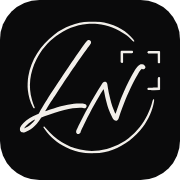
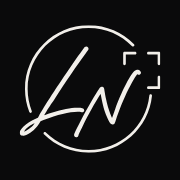
Add Lina Nieto logotype and update the LN monogram (#7)
* Add Lina Nieto logotype and update the LN monogram

- New LN monogram artwork in Logo.tsx and public/logo-ln.svg
- Logotype.tsx and public/logotipo.svg: "Lina Nieto" in script
- Navigation and mobile menu show monogram + logotype instead of text
- New favicon, apple-touch-icon and Open Graph image with the lockup
- Document the lockup in README and DESIGN.md

Claude-Session: https://claude.ai/code/session_013SFx2cV7kBRcZLTBZEKYRE

* Remove the tagline from the Open Graph image

Claude-Session: https://claude.ai/code/session_013SFx2cV7kBRcZLTBZEKYRE

* Remove the tagline from the Open Graph image

Claude-Session: https://claude.ai/code/session_013SFx2cV7kBRcZLTBZEKYRE

---------

diff --git a/src/components/Logotype.tsx b/src/components/Logotype.tsx
@@ -1,0 +1,38 @@
+import { cn } from 'polpo/helpers';
+
+/** Paths of the "Lina Nieto" script logotype (176 × 50 artboard). */
+const PATHS = [
+  'M32.5938 29.8321C31.8336 29.0198 31.4789 27.2936 31.4789 25.6181C31.4789 24.0442 31.7829 22.4703 32.3404 21.6072C32.3911 21.3533 32.8978 21.3026 33.506 21.4549C34.0634 21.658 34.3675 22.0641 34.3168 22.318C33.9114 22.7242 32.8978 28.4613 33.658 29.1213C34.0634 29.426 34.5702 29.5783 35.1276 29.5783C38.2696 29.5783 43.6413 25.5166 45.1616 23.9934C45.3643 23.7904 45.8711 24.095 45.2629 25.2119C44.3001 26.9889 39.6885 30.9999 36.1918 31.1522C34.9249 31.203 33.5566 30.8983 32.5938 29.8321ZM33.658 18.0532C33.0499 17.8501 32.7458 17.3932 32.9992 17.1901C33.1005 17.0378 33.4553 16.0223 33.5566 15.7685L33.658 15.0069C33.658 14.7023 34.2154 14.6008 34.7222 14.8038C35.381 14.9562 35.7864 15.3623 35.685 15.6162C35.685 15.8193 35.685 16.1747 35.533 16.4793C35.4317 16.7331 35.0262 17.8501 34.8742 18.104C34.7222 18.3071 34.1141 18.3071 33.658 18.0532Z',
+  'M43.3986 29.6291C43.3479 29.2229 43.2972 28.7152 43.3986 28.1059L43.9053 23.0288C43.9053 22.6734 44.4121 22.6226 44.9189 22.8257C45.3243 23.0796 45.7804 23.5365 45.7297 23.8411L45.6284 25.5673C47.3514 24.2981 51.0001 22.4703 53.838 22.7749C54.8008 22.8765 55.713 23.7904 55.713 24.5519C55.713 25.415 55.1556 27.3443 55.8144 28.309C56.3211 28.7152 56.8786 28.8675 57.5374 28.8675C60.6793 28.8675 65.0882 24.8566 66.7098 24.0442C66.9126 23.9427 67.1152 25.0596 66.3551 26.0243C65.1389 27.5982 61.8449 30.2891 58.2975 30.2891C56.8279 30.2891 55.2062 29.6798 54.2941 28.3598C53.7873 27.5982 53.6353 26.7351 53.6353 25.8212C53.6353 25.2627 53.6859 24.7042 53.7873 24.095C50.0372 24.5012 46.1858 26.9382 45.2229 29.0706L45.1723 30.2383C45.2229 30.8983 43.4493 30.4414 43.3986 29.6291Z',
+  'M65.0617 30.086C64.0481 29.3244 63.5414 28.3598 63.5414 27.2936C63.5414 26.1766 64.0988 25.0596 65.3657 24.1965C66.734 23.2826 68.457 22.8257 70.2307 22.8257C71.6496 22.8257 73.0686 23.1303 74.3355 23.6888H74.3862L75.2477 22.5211C75.5517 21.9626 77.2747 23.0796 76.92 23.6888C76.6666 24.4504 76.2105 25.3643 76.1092 26.3289C76.0585 27.192 76.3119 28.2075 77.2241 28.4613C79.8086 28.969 84.1668 26.3797 85.9911 24.3488C86.8526 23.4857 87.6128 24.755 84.8256 27.5474C83.5586 28.8167 80.062 30.4414 77.9335 29.9337C76.2612 29.5275 74.9943 28.5629 74.3355 26.7351C72.9165 28.0044 69.5719 30.5937 66.886 30.5937C66.2272 30.5937 65.6191 30.4414 65.0617 30.086ZM65.9738 28.969C68.4063 28.6644 71.7003 26.5828 73.474 24.7042C72.9672 24.5519 72.2577 24.4504 71.4976 24.4504C68.9638 24.4504 65.6191 25.415 65.0617 27.7505C64.9096 28.3598 65.2137 28.9183 65.9738 28.969Z',
+  'M120.985 32.5043C120.225 31.692 119.87 29.9657 119.87 28.2903C119.87 26.7164 120.174 25.1425 120.731 24.2794C120.782 24.0255 121.289 23.9747 121.897 24.127C122.454 24.3301 122.759 24.7363 122.708 24.9902C122.302 25.3963 121.289 31.1335 122.049 31.7935C122.454 32.0981 122.961 32.2505 123.519 32.2505C126.661 32.2505 132.032 28.1888 133.553 26.6656C133.755 26.4625 134.262 26.7672 133.654 27.8841C132.691 29.6611 128.08 33.6721 124.583 33.8244C123.316 33.8751 121.948 33.5705 120.985 32.5043ZM122.049 20.7254C121.441 20.5223 121.137 20.0653 121.39 19.8623C121.492 19.7099 121.846 18.6945 121.948 18.4407L122.049 17.6791C122.049 17.3745 122.607 17.2729 123.113 17.476C123.772 17.6283 124.177 18.0345 124.076 18.2884C124.076 18.4914 124.076 18.8468 123.924 19.1515C123.823 19.4053 123.417 20.5223 123.265 20.7761C123.113 20.9792 122.505 20.9792 122.049 20.7254Z',
+  'M152.429 13.7189C156.736 13.4143 162.514 12.9574 167.48 12.9574C170.368 12.9574 173.004 13.1097 174.828 13.5158C175.284 13.7189 175.791 14.2266 175.994 14.5313C176.044 14.9374 175.791 15.1405 175.385 15.0898C173.105 14.6328 170.267 14.4805 167.227 14.4805C161.804 14.4805 155.875 14.9882 152.024 15.2928C151.922 15.2928 151.821 15.3436 151.719 15.3436C151.415 19.253 151.213 22.9593 151.213 24.3301C151.061 27.6303 150.858 32.6059 150.858 37.3276C150.858 42.3539 151.111 47.1772 151.77 49.4619C151.973 50.5789 150.503 49.7665 150.098 48.7511C149.287 45.1464 149.084 38.343 149.084 32.5551C149.084 28.6965 149.186 25.244 149.287 23.5686L149.49 20.2684C147.919 25.701 143.915 33.7736 137.074 33.5197C134.591 33.4182 131.499 31.5904 131.499 28.9503C131.297 27.5287 132.158 25.6502 133.02 24.8378C133.628 24.2794 134.641 23.8224 135.756 23.8224C136.314 23.8224 136.922 23.9747 137.53 24.2794C138.239 24.6348 138.544 25.4979 138.696 26.0056C139 27.3764 136.111 30.1688 133.476 29.1534C133.628 29.8134 133.78 30.4227 134.185 30.9304C134.591 31.5904 135.199 31.9966 136.111 32.0474C142.75 32.4535 146.55 24.4317 148.578 15.5975C144.523 15.9021 140.723 16.2575 136.821 16.9175C135.858 17.0698 134.793 15.7498 135.655 15.5467C139.152 14.9374 142.75 14.4805 148.882 13.9728C149.642 10.3173 150.148 6.61095 150.402 3.36159C150.554 2.54925 152.936 3.31082 152.784 4.27548C152.48 6.25555 152.125 10.0126 151.821 13.7697C152.024 13.7697 152.226 13.7697 152.429 13.7189ZM137.023 25.3963C134.895 25.1425 134.084 26.6656 133.628 27.8333C134.793 28.2395 136.821 26.4625 137.023 25.3963Z',
+  'M170.823 27.5287C169.708 27.9349 166.414 28.3918 163.322 28.2395C163.525 28.8995 163.576 29.6611 163.424 30.4227C162.968 32.9613 160.89 34.2305 158.559 34.0782C156.684 33.9767 155.417 32.4028 155.163 30.9812C154.809 28.8488 156.126 26.4118 157.292 26.0056C157.393 26.0056 157.444 25.9548 157.545 25.9548C157.748 25.244 158.103 24.6855 159.116 24.7363C160.485 24.9394 161.599 25.5994 162.36 26.5133C163.626 26.6656 164.944 26.7164 166.11 26.7164C168.491 26.7164 170.468 26.5133 170.924 26.5133C172.394 26.4625 172.039 27.1226 170.823 27.5287ZM158.305 27.1226C157.647 27.6303 156.684 29.4073 156.937 30.8289C157.191 32.3012 157.748 32.8597 158.711 32.8089C160.941 32.7074 162.056 29.8134 161.245 27.9857C160.079 27.7826 159.116 27.478 158.407 27.021L158.305 27.1226Z',
+  'M33.0884 0.0529471C32.9829 0.085972 32.8115 0.185046 32.7192 0.264306C32.4292 0.5219 28.777 5.60112 26.318 9.16781C18.9542 19.8679 12.197 30.3235 9.65234 34.9404L9.15791 35.8387L8.30749 36.1821C5.72985 37.2455 3.4225 38.7118 1.80077 40.3367C0.271324 41.8624 -0.25607 43.0117 0.113106 43.9892C0.258139 44.3591 0.647092 44.7356 0.996491 44.828C1.35907 44.9337 2.01832 44.9139 2.49297 44.8016C3.38954 44.5705 5.09698 43.6061 6.30339 42.6484C7.85261 41.4133 8.7294 40.3697 10.2786 37.9259L10.4764 37.6088L11.9927 37.0276C18.9015 34.3658 24.9863 32.8863 29.1659 32.8598C30.2734 32.8532 30.4251 32.8664 30.7811 32.9985C31.2821 33.1835 31.6315 33.1835 31.9677 32.9919C32.3105 32.8004 32.4753 32.4834 32.4423 32.0738C32.3764 31.268 31.7501 30.9642 29.8647 30.8321C28.9879 30.7661 27.4387 30.8255 26.2323 30.9708C22.5999 31.4001 17.4512 32.7409 13.1134 34.3922C12.6453 34.5705 12.2498 34.7092 12.2366 34.696C12.2234 34.6828 12.6585 33.9695 13.1991 33.1042C14.1286 31.6115 14.7681 30.6075 16.2514 28.3354C16.6073 27.8004 17.3721 26.6181 17.9588 25.7133C22.7251 18.3685 29.2714 8.77811 32.5017 4.41223C33.9388 2.47037 34.4596 1.73061 34.5453 1.52586C34.9013 0.680419 33.9916 -0.231067 33.0884 0.0529471ZM7.35818 38.8307C7.10107 39.2468 6.14517 40.2838 5.55185 40.8056C4.53003 41.7039 3.00059 42.6682 2.3809 42.8135L2.19631 42.8598L2.30838 42.6418C2.7303 41.8162 4.02241 40.6009 5.49252 39.6498C6.02651 39.3063 7.29885 38.626 7.41751 38.626C7.45706 38.626 7.43069 38.7184 7.35818 38.8307Z',
+  'M123.338 5.41376C122.889 5.55907 122.527 5.81006 122.079 6.2592C119.929 8.45205 115.559 17.2102 112.704 25.0702C112.513 25.5986 112.084 26.8271 111.748 27.8046C111.254 29.2445 111.129 29.5615 111.076 29.4559C110.97 29.2577 110.43 28.0028 110.199 27.4149C109.395 25.3938 108.617 22.6726 108.03 19.8192C107.727 18.3661 107.305 15.9949 107.199 15.1957C107.107 14.489 106.778 14.0663 106.197 13.9144C105.782 13.8021 105.42 13.921 105.09 14.2644C104.754 14.6211 102.282 18.5973 100.541 21.5695C98.8007 24.5418 97.2185 27.4479 95.109 31.5166C93.1642 35.2814 92.149 37.4347 92.0369 38.0291C91.8919 38.8085 92.6104 39.4756 93.3883 39.2775C93.8103 39.1652 94.0937 38.8613 94.219 38.3726C94.3706 37.7979 94.8848 36.6685 96.4538 33.4915C99.3413 27.6593 102.42 22.0979 105.064 17.9368C105.34 17.5075 105.38 17.4678 105.406 17.6065C106.481 23.267 107.173 25.8099 108.498 29.0001C108.953 30.0965 109.678 31.543 110.014 32.0252C110.535 32.7649 111.247 33.0357 111.88 32.7319C112.302 32.5272 112.5 32.2233 112.796 31.3383C115.025 24.7399 116.884 20.1693 119.461 14.9315C120.51 12.8047 121.017 11.8536 121.854 10.4401C123.081 8.37279 123.878 7.38204 124.076 7.69908C124.155 7.82458 124.623 7.90384 124.894 7.83118C125.217 7.74532 125.592 7.34241 125.652 7.01877C125.797 6.24599 124.973 5.40716 124.017 5.34771C123.786 5.3345 123.496 5.36092 123.338 5.41376Z',
+];
+
+type LogotypeProps = {
+  className?: string;
+  /** Accessible name; omit it when a parent element already names the brand. */
+  title?: string;
+};
+
+/**
+ * "Lina Nieto" logotype in script. It always goes next to the LN monogram and
+ * inherits the text color (`currentColor`).
+ */
+export const Logotype = ({ className, title }: LogotypeProps) => (
+  <svg
+    viewBox='0 0 176 50'
+    fill='currentColor'
+    role={title ? 'img' : undefined}
+    aria-label={title}
+    aria-hidden={title ? undefined : true}
+    className={cn('shrink-0', className)}
+  >
+    {PATHS.map(d => (
+      <path key={d.slice(0, 16)} d={d} />
+    ))}
+  </svg>
+);

diff --git a/src/components/Logo.tsx b/src/components/Logo.tsx
@@ -1,19 +1,18 @@
 import { cn } from 'polpo/helpers';
 
-/** Paths of the LN monogram (potrace output, original 1378 × 1142 artboard). */
+/** Paths of the LN monogram (53 × 48 artboard). */
 const PATHS = [
-  'M6495 10480 c-916 -68 -1811 -405 -2546 -961 -1024 -773 -1700 -1862 -1903 -3064 -50 -299 -67 -736 -37 -1005 50 -459 176 -891 362 -1236 56 -105 67 -117 105 -112 42 5 52 30 33 80 -124 324 -157 416 -195 548 -278 969 -165 1971 337 2972 337 674 812 1239 1444 1716 663 500 1455 810 2269 887 207 20 567 19 777 -1 744 -70 1463 -348 2078 -802 125 -93 299 -242 438 -375 73 -70 136 -127 140 -127 19 0 53 32 53 50 0 30 -131 190 -272 332 -279 281 -564 487 -933 673 -439 221 -880 351 -1395 410 -157 19 -595 27 -755 15z',
-  'M6435 9110 c-16 -5 -42 -20 -56 -32 -44 -39 -598 -808 -971 -1348 -1117 -1620 -2142 -3203 -2528 -3902 l-75 -136 -129 -52 c-391 -161 -741 -383 -987 -629 -232 -231 -312 -405 -256 -553 22 -56 81 -113 134 -127 55 -16 155 -13 227 4 136 35 395 181 578 326 235 187 368 345 603 715 l30 48 230 88 c1048 403 1971 627 2605 631 168 1 191 -1 245 -21 76 -28 129 -28 180 1 52 29 77 77 72 139 -10 122 -105 168 -391 188 -133 10 -368 1 -551 -21 -551 -65 -1332 -268 -1990 -518 -71 -27 -131 -48 -133 -46 -2 2 64 110 146 241 141 226 238 378 463 722 54 81 170 260 259 397 723 1112 1716 2564 2206 3225 218 294 297 406 310 437 54 128 -84 266 -221 223z m-3903 -5871 c-39 -63 -184 -220 -274 -299 -155 -136 -387 -282 -481 -304 l-28 -7 17 33 c64 125 260 309 483 453 81 52 274 155 292 155 6 0 2 -14 -9 -31z',
-  'M8869 8312 l-31 -28 1 -384 c0 -212 1 -393 1 -403 0 -33 45 -67 90 -67 30 0 47 6 65 25 l25 24 0 336 0 335 330 0 c359 0 374 2 398 55 19 42 14 74 -17 106 l-29 29 -401 0 -401 0 -31 -28z',
-  'M10858 8304 c-57 -30 -65 -98 -19 -145 l29 -29 351 0 350 0 3 -341 3 -341 24 -19 c34 -27 93 -25 128 5 l28 24 0 402 0 402 -33 29 -32 29 -403 0 c-335 -1 -407 -3 -429 -16z',
-  'M10313 7336 c-68 -22 -123 -60 -191 -128 -326 -332 -989 -1658 -1422 -2848 -29 -80 -94 -266 -145 -414 -75 -218 -94 -266 -102 -250 -16 30 -98 220 -133 309 -122 306 -240 718 -329 1150 -46 220 -110 579 -126 700 -14 107 -64 171 -152 194 -63 17 -118 -1 -168 -53 -51 -54 -426 -656 -690 -1106 -264 -450 -504 -890 -824 -1506 -295 -570 -449 -896 -466 -986 -22 -118 87 -219 205 -189 64 17 107 63 126 137 23 87 101 258 339 739 438 883 905 1725 1306 2355 42 65 48 71 52 50 163 -857 268 -1242 469 -1725 69 -166 179 -385 230 -458 79 -112 187 -153 283 -107 64 31 94 77 139 211 338 999 620 1691 1011 2484 159 322 236 466 363 680 186 313 307 463 337 415 12 -19 83 -31 124 -20 49 13 106 74 115 123 22 117 -103 244 -248 253 -35 2 -79 -2 -103 -10z',
-  'M11625 6386 c-53 -23 -55 -36 -55 -416 l0 -350 -57 -1 c-32 0 -192 -2 -356 -2 l-299 -2 -24 -28 c-43 -50 -27 -121 33 -146 21 -8 141 -11 431 -9 l402 3 27 28 28 27 0 425 0 425 -25 24 c-32 32 -67 39 -105 22z',
-  'M11228 4748 c-10 -8 -29 -66 -47 -138 -168 -678 -511 -1373 -945 -1915 -251 -313 -530 -589 -812 -801 -652 -492 -1404 -803 -2174 -898 -485 -60 -900 -42 -1394 60 -483 101 -923 280 -1366 554 -396 246 -810 614 -1150 1022 -57 68 -111 127 -121 132 -24 11 -69 -17 -69 -43 0 -10 41 -76 90 -145 425 -598 927 -1028 1575 -1346 427 -209 842 -340 1300 -409 252 -38 567 -54 831 -40 915 45 1762 360 2549 949 340 254 706 626 977 990 422 568 717 1239 820 1866 21 130 21 134 3 154 -21 23 -44 26 -67 8z',
+  'M24.8114 8.03963C24.7323 8.06435 24.6038 8.1385 24.5346 8.19782C24.3171 8.39062 21.5785 12.1922 19.7346 14.8617C14.2129 22.8702 9.14596 30.6958 7.23783 34.1513L6.86708 34.8236L6.22939 35.0807C4.29654 35.8766 2.56637 36.9741 1.35031 38.1902C0.203453 39.3321 -0.192014 40.1923 0.0848128 40.9239C0.193566 41.2008 0.485224 41.4825 0.747221 41.5518C1.0191 41.6309 1.51344 41.616 1.86936 41.532C2.54165 41.359 3.82198 40.6372 4.72661 39.9204C5.8883 38.996 6.54576 38.2149 7.70745 36.3858L7.85575 36.1485L8.99272 35.7135C14.1733 33.7212 18.736 32.6139 21.8701 32.5941C22.7006 32.5892 22.8143 32.599 23.0812 32.6979C23.4569 32.8363 23.7189 32.8363 23.971 32.693C24.2281 32.5496 24.3517 32.3123 24.327 32.0058C24.2775 31.4027 23.8079 31.1753 22.3941 31.0764C21.7367 31.027 20.575 31.0715 19.6703 31.1803C16.9466 31.5016 13.0858 32.5051 9.83309 33.741C9.48211 33.8745 9.18551 33.9783 9.17562 33.9684C9.16573 33.9585 9.49199 33.4246 9.89735 32.777C10.5944 31.6598 11.0739 30.9084 12.1861 29.2078C12.4531 28.8074 13.0265 27.9225 13.4664 27.2452C17.0405 21.748 21.9492 14.57 24.3715 11.3024C25.4491 9.84896 25.8396 9.29528 25.9039 9.14203C26.1708 8.50926 25.4887 7.82706 24.8114 8.03963ZM5.51755 37.063C5.32476 37.3745 4.60797 38.1506 4.16307 38.5412C3.39685 39.2135 2.25 39.9352 1.78532 40.044L1.64691 40.0786L1.73095 39.9155C2.04732 39.2975 3.01621 38.3879 4.11858 37.676C4.51899 37.419 5.47306 36.9098 5.56204 36.9098C5.5917 36.9098 5.57192 36.979 5.51755 37.063Z',
+  'M43.9817 16.8094C43.6455 16.9182 43.3737 17.106 43.0375 17.4422C41.426 19.0835 38.1486 25.6386 36.0081 31.5214C35.8647 31.9168 35.5434 32.8363 35.2913 33.568C34.9206 34.6457 34.8266 34.8829 34.7871 34.8039C34.708 34.6555 34.3026 33.7163 34.1296 33.2763C33.5265 31.7636 32.9432 29.7269 32.5033 27.5913C32.2759 26.5037 31.9595 24.729 31.8804 24.1308C31.8112 23.6018 31.564 23.2854 31.129 23.1717C30.8176 23.0877 30.5457 23.1767 30.2985 23.4338C30.0464 23.7007 28.1927 26.6767 26.8876 28.9013C25.5826 31.1259 24.3962 33.301 22.8143 36.3462C21.356 39.164 20.5947 40.7756 20.5107 41.2205C20.402 41.8039 20.9408 42.3032 21.5241 42.1549C21.8405 42.0708 22.053 41.8434 22.147 41.4776C22.2607 41.0475 22.6462 40.2022 23.8227 37.8243C25.9879 33.4592 28.2965 29.2968 30.2788 26.1824C30.4864 25.861 30.516 25.8314 30.5358 25.9352C31.3416 30.1718 31.8606 32.075 32.8542 34.4627C33.1953 35.2834 33.7391 36.366 33.9912 36.7269C34.3817 37.2806 34.9156 37.4832 35.3902 37.2558C35.7065 37.1026 35.8548 36.8752 36.0773 36.2128C37.7481 31.2742 39.1422 27.8533 41.075 23.933C41.861 22.3412 42.2416 21.6294 42.8694 20.5715C43.7889 19.0241 44.3871 18.2826 44.5354 18.5199C44.5947 18.6138 44.9456 18.6731 45.1483 18.6188C45.3906 18.5545 45.6723 18.2529 45.7168 18.0107C45.8256 17.4323 45.2076 16.8045 44.4909 16.76C44.3178 16.7501 44.1003 16.7699 43.9817 16.8094Z',
+  'M43.5 10C43.7761 10 44 10.2239 44 10.5C44 10.7761 43.7761 11 43.5 11H40V14.5C40 14.7761 39.7761 15 39.5 15C39.2239 15 39 14.7761 39 14.5V10.5C39 10.2239 39.2239 10 39.5 10H43.5Z',
+  'M53 14.5C53 14.7761 52.7761 15 52.5 15C52.2239 15 52 14.7761 52 14.5L52 11L48.5 11C48.2239 11 48 10.7761 48 10.5C48 10.2239 48.2239 10 48.5 10L52.5 10C52.7761 10 53 10.2239 53 10.5L53 14.5Z',
+  'M48.5 24C48.2239 24 48 23.7761 48 23.5C48 23.2239 48.2239 23 48.5 23L52 23L52 19.5C52 19.2239 52.2239 19 52.5 19C52.7761 19 53 19.2239 53 19.5L53 23.5C53 23.7761 52.7761 24 52.5 24L48.5 24Z',
+  'M49.3703 26C49.6644 26 49.8961 26.2527 49.8653 26.5452C48.5942 38.6034 38.3946 48 25.9995 48C19.429 47.9999 13.4757 45.3588 9.14179 41.0811C9.0503 40.9908 8.99951 40.8673 8.99951 40.7387C8.99951 40.295 9.5529 40.0768 9.86915 40.3882C14.0198 44.4742 19.715 46.996 25.9995 46.9961C37.8685 46.9961 47.6364 38.0039 48.8643 26.4607C48.892 26.201 49.1092 26 49.3703 26ZM25.9995 0C32.6923 0 38.7443 2.74065 43.0971 7.15965C43.4097 7.47702 43.1788 8 42.7334 8C42.5939 8 42.4605 7.94325 42.3625 7.844C38.1932 3.62166 32.4022 1.00391 25.9995 1.00391C13.2994 1.00414 3.00439 11.2998 3.00439 24C3.00439 26.9282 3.5518 29.7284 4.54969 32.3041C4.67831 32.6361 4.43735 33 4.08132 33C3.87899 33 3.69645 32.8775 3.62316 32.6889C2.57598 29.9944 1.99951 27.0646 1.99951 24C1.99951 10.7453 12.7449 0.000230268 25.9995 0Z',
 ];
 
 type LogoProps = {
   className?: string;
-  /** Accessible name; omit it when the logo sits next to visible text with the same name. */
+  /** Accessible name; omit it when the logo sits next to visible text or the logotype. */
   title?: string;
 };
 
@@ -23,17 +22,15 @@ type LogoProps = {
  */
 export const Logo = ({ className, title }: LogoProps) => (
   <svg
-    viewBox='141 93 1035 972'
+    viewBox='0 0 53 48'
     fill='currentColor'
     role={title ? 'img' : undefined}
     aria-label={title}
     aria-hidden={title ? undefined : true}
     className={cn('shrink-0', className)}
   >
-    <g transform='translate(0 1142) scale(0.1 -0.1)'>
-      {PATHS.map(d => (
-        <path key={d.slice(0, 12)} d={d} />
-      ))}
-    </g>
+    {PATHS.map(d => (
+      <path key={d.slice(0, 16)} d={d} />
+    ))}
   </svg>
 );

diff --git a/src/components/Navigation.tsx b/src/components/Navigation.tsx
@@ -8,6 +8,7 @@ import { Link, useLocation, useNavigate } from 'react-router';
 import { contact } from '../content/contact';
 
 import { Logo } from './Logo';
+import { Logotype } from './Logotype';
 
 const links = [
   { label: 'Portafolio', a: '/' },
@@ -30,13 +31,11 @@ const Brand = ({ className, onClick }: { className?: string; onClick?: () => voi
   <Link
     to='/'
     onClick={onClick}
-    className={cn(
-      'font-title t-header4 inline-flex items-center gap-3 font-extrabold tracking-[-0.01em] text-bone',
-      className,
-    )}
+    aria-label='Lina Nieto, ir al inicio'
+    className={cn('inline-flex items-center gap-3 text-bone', className)}
   >
     <Logo className='h-10 w-auto md:h-11' />
-    Lina Nieto
+    <Logotype className='h-8 w-auto md:h-9' />
   </Link>
 );
 

diff --git a/docs/DESIGN.md b/docs/DESIGN.md
@@ -35,12 +35,6 @@ typography:
     fontSize: "40px"
     lineHeight: 1
     letterSpacing: "-0.015em"
-  brand:
-    fontFamily: "Bricolage Grotesque"
-    fontWeight: 800
-    fontSize: "24px"
-    lineHeight: 1
-    letterSpacing: "-0.01em"
   serif-xl:
     fontFamily: "Instrument Serif"
     fontStyle: italic
@@ -176,7 +170,6 @@ Polpo mapping: `background` = ink, `background-paper` = charcoal, `foreground` =
 - **Divider** (Bricolage 800, 112px, 0.94, -3%): type-of-photography dividers. Code: `header1`.
 - **Project title** (Bricolage 800, 80px, 0.96, -2.5%): each project. Code: `header2`.
 - **Title S** (Bricolage 800, 40px, 1, -1.5%): section and page titles. Code: `header3`.
-- **Brand** (Bricolage 800, 24px desktop / 20px mobile): "Lina Nieto" next to the logo. Code: `header4` via `t-header4`.
 - **Serif XL / Serif** (Instrument Serif italic, 96px / 32px, ash): the second voice under titles. Code: `t-serif-xl`, `t-serif`, class `serif-voice`.
 - **Lead** (Hanken 400, 20px, 1.6): project paragraphs and field values. Code: `t-lead`.
 - **Body** (Hanken 400, 16px, 1.6): reading text, at most about 65ch.
@@ -211,9 +204,15 @@ Flat. Black ground, graphite hairlines, no shadows, no blur. Depth comes from th
 
 ## Components
 
-### Logo
+### Logo and logotype
 
-The LN monogram: "LN" in a single-line script inside a broken circle, with a viewfinder corner at the top right. It is a single-colour mark (`currentColor`): bone `#F2EFEA` on ink, ink `#0A0A0B` on bone (Figma: D/Logo LN, variants Hueso and Tinta). In the navigation it sits to the left of the name "Lina Nieto" (40px tall on mobile, 44px on desktop, 12px gap); in the footer it appears at 28px before the copyright. Minimum height 24px. Do not recolour, outline, rotate, add effects or place it over busy areas of a photo. Source: `public/logo-ln.svg`; code: `src/components/Logo.tsx`.
+The **LN monogram**: "LN" in a single-line script inside a broken circle, with a viewfinder corner at the top right. The **logotype**: "Lina Nieto" in the same single-line script. Both are single-colour marks (`currentColor`): bone `#F2EFEA` on ink, ink `#0A0A0B` on bone (Figma: D/Logo LN and D/Logotipo, variants Hueso and Tinta).
+
+- **Lockup** (navigation and mobile menu): monogram, 12px gap, logotype. Monogram 40px tall on mobile and 44px on desktop; logotype 32px on mobile and 36px on desktop. The whole lockup links home.
+- **Footer:** the monogram alone at 28px before the copyright.
+- **Minimums:** monogram 24px tall, logotype 20px tall.
+- Do not recolour, outline, rotate, add effects, set the name in another typeface next to the monogram, or place the marks over busy areas of a photo.
+- Sources: `public/logo-ln.svg`, `public/logotipo.svg`; code: `src/components/Logo.tsx`, `src/components/Logotype.tsx`.
 
 ### Buttons (D/Botón)
 
@@ -223,8 +222,8 @@ The LN monogram: "LN" in a single-line script inside a broken circle, with a vie
 
 ### Navigation (D/Navegación)
 
-- **Desktop:** logo and name on the left, centered links (Portafolio, Servicios, Sobre mí, Contacto) with the active one in bone and the rest in ash, the primary Cotizar button on the right.
-- **Mobile:** logo and name, plus a round outlined menu button. The menu opens full-screen on ink with the links in Bricolage, the Cotizar button and the base coordinates.
+- **Desktop:** monogram and logotype on the left, centered links (Portafolio, Servicios, Sobre mí, Contacto) with the active one in bone and the rest in ash, the primary Cotizar button on the right.
+- **Mobile:** monogram and logotype, plus a round outlined menu button. The menu opens full-screen on ink with the links in Bricolage, the Cotizar button and the base coordinates.
 
 ### Fact sheet (D/Dato de ficha)
 
@@ -288,4 +287,4 @@ The shared set ("Recursos compartidos") is drawn at 24px with a 1.5px stroke and
 
 - Desktop (1440) and mobile (390): Portafolio, Proyecto (Cordillera, with "Del azul al color" and the next project), Foto ampliada, Servicios (editorial list with rules), Cotizar (bottom-line fields, chips, service tiles, WhatsApp column), Solicitud enviada; on mobile also the Menú overlay.
 - Prototype starting points: "Cuarto oscuro · Escritorio" and "Cuarto oscuro · Móvil".
-- Components: D/Logo LN, D/Botón, D/Navegación, D/Campo, D/Chip, D/Dato de ficha, D/Encabezado de proyecto, D/Mosaico de servicio.
+- Components: D/Logo LN, D/Logotipo, D/Botón, D/Navegación, D/Campo, D/Chip, D/Dato de ficha, D/Encabezado de proyecto, D/Mosaico de servicio.

diff --git a/README.md b/README.md
@@ -67,17 +67,18 @@ docs/                  DESIGN.md (design system) and PRODUCT.md (product context
 Routes (kept in Spanish because visitors see them): `/`, `/proyectos/:slug`, `/proyectos/:slug/foto/:n`,
 `/servicios`, `/cotizar`, `/cotizar/enviada`.
 
-## Logo
+## Logo and logotype
 
-The LN monogram (script "LN" inside a broken circle with a viewfinder corner) lives in two places:
+The brand is the LN monogram (script "LN" inside a broken circle with a viewfinder corner) plus the "Lina Nieto"
+logotype in script. Both are single-colour SVGs that take the text color (`currentColor`):
 
-- `src/components/Logo.tsx`: inline SVG that takes the text color (`currentColor`). Used in the navigation (with
-  the name "Lina Nieto"), in the mobile menu and in the footer.
-- `public/logo-ln.svg` (source file, `currentColor`), `public/favicon.svg` (bone monogram on an ink square),
-  `public/apple-touch-icon.png` (180×180) and `public/og.jpg` (link preview with the monogram).
+- `src/components/Logo.tsx` (monogram) and `src/components/Logotype.tsx` (logotype). In the navigation and the
+  mobile menu they go together, monogram first; the footer uses the monogram alone before the copyright.
+- `public/logo-ln.svg` and `public/logotipo.svg` (source files), `public/favicon.svg` (bone monogram on an ink
+  square), `public/apple-touch-icon.png` (180×180) and `public/og.jpg` (link preview with monogram and logotype).
 
-Use it in bone on dark backgrounds and in ink on light ones; never in color, outlined or distorted. Keep at least
-24 px of height on screen so the script stays legible.
+Use them in bone on dark backgrounds and in ink on light ones; never in color, outlined or distorted. Keep the
+monogram at least 24 px tall and the logotype at least 20 px tall so the script stays legible.
 
 ## Theme
 

diff --git a/.impeccable/surfaces/figma-portafolio.md b/.impeccable/surfaces/figma-portafolio.md
@@ -16,7 +16,7 @@ Audience: brands (product/fashion), private clients (portraits), editorial/touri
 - Mode: Experience. The photo leads; the interface is black, bone and gray.
 - Typography: Bricolage Grotesque ExtraBold (display, -3% tracking), Instrument Serif Italic (subtitles and second voice), Hanken Grotesk (text, fact sheet, navigation), Geist Mono for coordinates only.
 - Color: ink #0A0A0B, charcoal #151517, graphite #2A2A2E (rules), bone #F2EFEA (text), ash #A3A3A8 (secondary), Prussian blue #5B8FC0 (Cianotipias series only), gold #C49A4E (one active touch per block).
-- Brand: LN monogram (D/Logo LN) next to the name in the navigation and in the footer.
+- Brand: LN monogram (D/Logo LN) plus the script logotype (D/Logotipo) in the navigation and menu; monogram alone in the footer.
 - Signature: the "Cianotipias" series in personal projects turns from Prussian blue to colour on hover or tap.
 - Not allowed: eyebrows above titles, section numbers, glass cards, color gradients, shadows.
 - FINISH: unreviewed and undocumented is unfinished; this build ends with the finish review, the verdict, docs/DESIGN.md, and every shipping raster carrying its provenance
